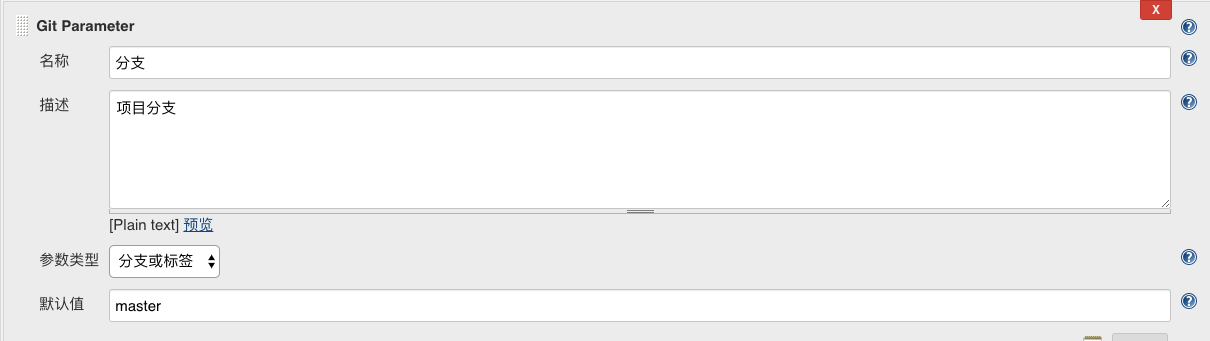
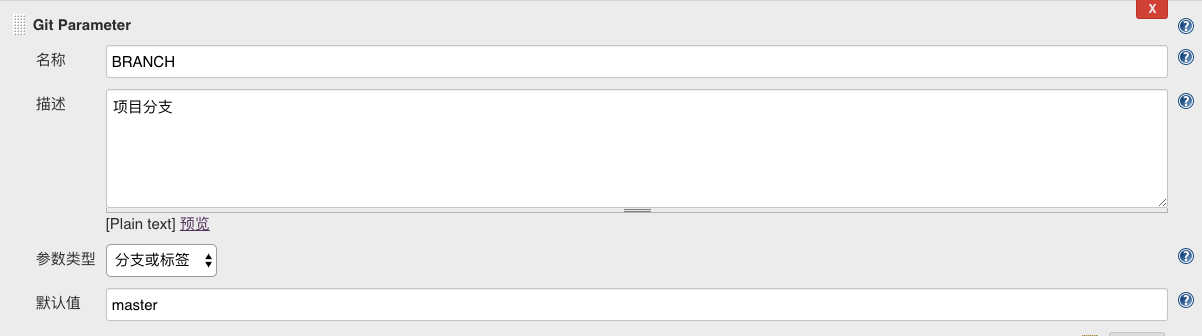
docs: update

diff --git a/ci/miniprogram/miniprogram.md b/ci/miniprogram/miniprogram.md
@@ -99,6 +99,8 @@ tar dist
 由于本文将使用`命令行调用`去实现小程序的自动化部署，下面将实现对应的`shell`脚本：
 
 ```shell
+git checkout ${BRANCH}
+
 npm i
 
 alias mpcli='/Applications/wechatwebdevtools.app/Contents/MacOS/cli'
@@ -107,19 +109,31 @@ mpcli open
 
 npm run build:weapp
 
-upload_ret=$(mpcli upload --project ${WORKSPACE}/dist --appid ${APPID} -v ${VERSION} -d ${DESC})
-
-if [ $upload_ret == 0 ]
-  then
-  echo "上传成功!"
-else
-  echo "返回状态码${upload_ret}，上传失败!"
-  exit 1
-fi
+mpcli upload --project ${WORKSPACE}/dist -v ${VERSION} -d ${DESC}
 ```
 
-## 脚本优化
+> 注意，需要先登录开发者工具
+
+大致流程为：
+
+- 切换指定分支，安装依赖；
+- 设置`alias`，缩短命令长度；
+- 执行`open`命令，确保小程序开发工具已经打开；
+- 执行构建命令；
+- 上传`dist`目录代码；
+
+## 测试
+
+下面就看看执行的效果：
+
+- 选择`Build with Parameters`，填写必须的参数：
+
+![构建参数](./images/build_params.png)
+
+- 点击构建后，查看控制台输出，如下结果为成功！
+
+![构建结果](./images/build_result.png)
 
 ## 总结
 
-
+本篇文章主要分享了关于在小程序构建流程中的一个痛点，并且通过`Jenkins`和小程序开发工具的`命令行调用`去解决在开发流程上的问题，实现构建流程的自动化；文章中不仅有`脚本的实现`，而且还有`Jenkins`的配置，思路会比较简单的，在实际应用中，可以结合具体应用场景，再进行改造，这里先`抛砖引玉`；最后希望文章能对大家有启发，同时也欢迎大家讨论指正！
